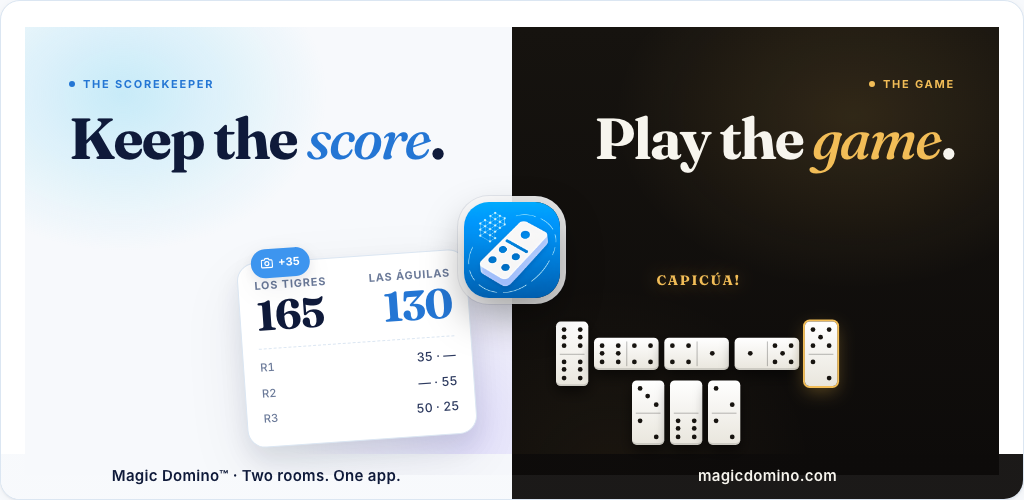
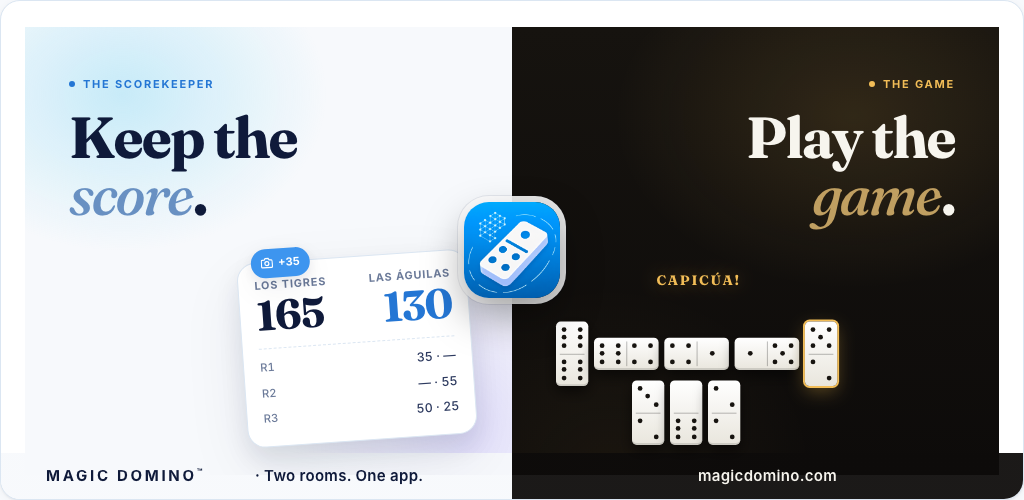
brand: the bar, footer and social card draw the one wordmark — caps, black, tracked

diff --git a/index.html b/index.html
@@ -14,25 +14,25 @@
     <meta property="og:title" content="Magic Domino™ — Keep the score. Play the game.">
     <meta property="og:description" content="The dominoes scorekeeper trusted at real tables, and a real domino game with the rules you grew up with. Two rooms, one app.">
     <meta property="og:url" content="https://magicdomino.com/">
-    <meta property="og:image" content="https://magicdomino.com/social-card.png?v=20260930t">
+    <meta property="og:image" content="https://magicdomino.com/social-card.png?v=20260930u">
     <meta property="og:image:width" content="1024">
     <meta property="og:image:height" content="500">
     <meta name="twitter:card" content="summary_large_image">
     <meta name="twitter:title" content="Magic Domino™ — Keep the score. Play the game.">
     <meta name="twitter:description" content="The dominoes scorekeeper trusted at real tables, and a real domino game with the rules you grew up with. Two rooms, one app.">
-    <meta name="twitter:image" content="https://magicdomino.com/social-card.png?v=20260930t">
+    <meta name="twitter:image" content="https://magicdomino.com/social-card.png?v=20260930u">
 
     <link rel="preconnect" href="https://fonts.googleapis.com">
     <link rel="preconnect" href="https://fonts.gstatic.com" crossorigin>
     <link href="https://fonts.googleapis.com/css2?family=Fraunces:ital,opsz,wght@0,9..144,400;0,9..144,500;0,9..144,600;0,9..144,700;0,9..144,800;1,9..144,500&family=Inter:wght@400;500;600;700&display=swap" rel="stylesheet">
-    <link rel="stylesheet" href="site.css?v=20260930t">
-    <script src="/i18n.js?v=20260930t"></script>
+    <link rel="stylesheet" href="site.css?v=20260930u">
+    <script src="/i18n.js?v=20260930u"></script>
 </head>
 <body>
 
     <nav class="navbar" id="navbar">
         <a href="index.html" class="navbar-brand">
-            <img src="app-icon.png?v=20260930t" alt="" class="brand-icon"><span>Magic Domino<span class="brand-tm">™</span></span>
+            <img src="app-icon.png?v=20260930u" alt="" class="brand-icon"><span>Magic Domino<span class="brand-tm">™</span></span>
         </a>
         <button class="mobile-menu-toggle" onclick="toggleMenu()" aria-label="Menu" data-i18n-attr="aria-label:a11y.menu">☰</button>
         <div class="navbar-links" id="navbarLinks">
@@ -60,7 +60,7 @@
                     <a class="pane-link" href="#score"><span data-i18n="hero.scoreLink">See the scorekeeper</span> <span aria-hidden="true">↓</span></a>
                 </div>
                 <!-- A real phone, showing the real scoreboard, rising out of the pane. -->
-                <figure class="mock mock-score" aria-hidden="true"><img src="hero-score.png?v=20260930t" alt="" width="736" height="1600"></figure>
+                <figure class="mock mock-score" aria-hidden="true"><img src="hero-score.png?v=20260930u" alt="" width="736" height="1600"></figure>
             </div>
 
             <div class="pane pane-play world-play">
@@ -71,11 +71,11 @@
                     <a class="pane-link" href="#play"><span data-i18n="hero.playLink">See the game</span> <span aria-hidden="true">↓</span></a>
                 </div>
                 <!-- A real phone, showing the table mid-hand. -->
-                <figure class="mock mock-play" aria-hidden="true"><img src="hero-play.png?v=20260930t" alt="" width="736" height="1600"></figure>
+                <figure class="mock mock-play" aria-hidden="true"><img src="hero-play.png?v=20260930u" alt="" width="736" height="1600"></figure>
             </div>
 
             <div class="hinge" aria-hidden="true">
-                <img src="app-icon.png?v=20260930t" alt="" class="hinge-icon">
+                <img src="app-icon.png?v=20260930u" alt="" class="hinge-icon">
                 <span class="hinge-label" data-i18n="hero.oneApp">One app</span>
             </div>
         </div>
@@ -163,19 +163,19 @@
                 <button class="scroll-arrow scroll-arrow-left" aria-label="Previous screenshots" data-i18n-attr="aria-label:a11y.prevShots" onclick="scrollStrip('scoreStrip', -1)">‹</button>
                 <div class="strip" id="scoreStrip">
                     <figure class="shot"><div class="shot-frame">
-                        <img src="shot-1.png?v=20260930t" alt="AI score counting with the camera" data-i18n-attr="alt:alt.shot1" data-missing onload="shotLoaded(this)" onerror="this.remove()">
+                        <img src="shot-1.png?v=20260930u" alt="AI score counting with the camera" data-i18n-attr="alt:alt.shot1" data-missing onload="shotLoaded(this)" onerror="this.remove()">
                         <div class="ph"><div><div class="ph-board"><span class="bar hi"></span><span class="bar"></span><span class="bar g"></span><span class="bar"></span></div><div class="ph-title" data-i18n="alt.shot1">AI score counting</div></div></div>
                     </div></figure>
                     <figure class="shot"><div class="shot-frame">
-                        <img src="shot-2.png?v=20260930t" alt="Scoreboard view" data-i18n-attr="alt:alt.shot2" data-missing onload="shotLoaded(this)" onerror="this.remove()">
+                        <img src="shot-2.png?v=20260930u" alt="Scoreboard view" data-i18n-attr="alt:alt.shot2" data-missing onload="shotLoaded(this)" onerror="this.remove()">
                         <div class="ph"><div><div class="ph-board"><span class="bar hi"></span><span class="bar"></span><span class="bar g"></span><span class="bar"></span></div><div class="ph-title" data-i18n="alt.shot2">Scoreboard</div></div></div>
                     </div></figure>
                     <figure class="shot"><div class="shot-frame">
-                        <img src="shot-3.png?v=20260930t" alt="Tournament bracket" data-i18n-attr="alt:alt.shot3" data-missing onload="shotLoaded(this)" onerror="this.remove()">
+                        <img src="shot-3.png?v=20260930u" alt="Tournament bracket" data-i18n-attr="alt:alt.shot3" data-missing onload="shotLoaded(this)" onerror="this.remove()">
                         <div class="ph"><div><div class="ph-board"><span class="bar hi"></span><span class="bar"></span><span class="bar g"></span><span class="bar"></span></div><div class="ph-title" data-i18n="alt.shot3">Tournament bracket</div></div></div>
                     </div></figure>
                     <figure class="shot"><div class="shot-frame">
-                        <img src="shot-4.png?v=20260930t" alt="Game history" data-i18n-attr="alt:alt.shot4" data-missing onload="shotLoaded(this)" onerror="this.remove()">
+                        <img src="shot-4.png?v=20260930u" alt="Game history" data-i18n-attr="alt:alt.shot4" data-missing onload="shotLoaded(this)" onerror="this.remove()">
                         <div class="ph"><div><div class="ph-board"><span class="bar hi"></span><span class="bar"></span><span class="bar g"></span><span class="bar"></span></div><div class="ph-title" data-i18n="alt.shot4">Game history</div></div></div>
                     </div></figure>
                 </div>
@@ -262,27 +262,27 @@
                 <button class="scroll-arrow scroll-arrow-left" aria-label="Previous screenshots" data-i18n-attr="aria-label:a11y.prevShots" onclick="scrollStrip('playStrip', -1)">‹</button>
                 <div class="strip" id="playStrip">
                     <figure class="shot"><div class="shot-frame">
-                        <img src="play-shot-1.png?v=20260930t" alt="The table" data-i18n-attr="alt:pshots.s1" data-missing onload="shotLoaded(this)" onerror="this.remove()">
+                        <img src="play-shot-1.png?v=20260930u" alt="The table" data-i18n-attr="alt:pshots.s1" data-missing onload="shotLoaded(this)" onerror="this.remove()">
                         <div class="ph"><div><div class="ph-mini"><div class="tile h"><div class="face p6"><i></i><i></i><i></i><i></i><i></i><i></i><i></i><i></i><i></i></div><div class="face p3"><i></i><i></i><i></i><i></i><i></i><i></i><i></i><i></i><i></i></div></div><div class="tile h just"><div class="face p3"><i></i><i></i><i></i><i></i><i></i><i></i><i></i><i></i><i></i></div><div class="face p1"><i></i><i></i><i></i><i></i><i></i><i></i><i></i><i></i><i></i></div></div></div><div class="ph-title" data-i18n="pshots.s1">The table</div></div></div>
                     </div></figure>
                     <figure class="shot"><div class="shot-frame">
-                        <img src="play-shot-2.png?v=20260930t" alt="The front door" data-i18n-attr="alt:pshots.s5" data-missing onload="shotLoaded(this)" onerror="this.remove()">
+                        <img src="play-shot-2.png?v=20260930u" alt="The front door" data-i18n-attr="alt:pshots.s5" data-missing onload="shotLoaded(this)" onerror="this.remove()">
                         <div class="ph"><div><div class="ph-mini"><div class="tile "><div class="face p6"><i></i><i></i><i></i><i></i><i></i><i></i><i></i><i></i><i></i></div><div class="face p6"><i></i><i></i><i></i><i></i><i></i><i></i><i></i><i></i><i></i></div></div><div class="tile "><div class="face p5"><i></i><i></i><i></i><i></i><i></i><i></i><i></i><i></i><i></i></div><div class="face p5"><i></i><i></i><i></i><i></i><i></i><i></i><i></i><i></i><i></i></div></div><div class="tile "><div class="face p4"><i></i><i></i><i></i><i></i><i></i><i></i><i></i><i></i><i></i></div><div class="face p4"><i></i><i></i><i></i><i></i><i></i><i></i><i></i><i></i><i></i></div></div></div><div class="ph-title" data-i18n="pshots.s5">The front door</div></div></div>
                     </div></figure>
                     <figure class="shot"><div class="shot-frame">
-                        <img src="play-shot-3.png?v=20260930t" alt="Pick your game" data-i18n-attr="alt:pshots.s2" data-missing onload="shotLoaded(this)" onerror="this.remove()">
+                        <img src="play-shot-3.png?v=20260930u" alt="Pick your game" data-i18n-attr="alt:pshots.s2" data-missing onload="shotLoaded(this)" onerror="this.remove()">
                         <div class="ph"><div><div class="ph-mini"><div class="tile "><div class="face p6"><i></i><i></i><i></i><i></i><i></i><i></i><i></i><i></i><i></i></div><div class="face p6"><i></i><i></i><i></i><i></i><i></i><i></i><i></i><i></i><i></i></div></div><div class="tile "><div class="face p5"><i></i><i></i><i></i><i></i><i></i><i></i><i></i><i></i><i></i></div><div class="face p5"><i></i><i></i><i></i><i></i><i></i><i></i><i></i><i></i><i></i></div></div><div class="tile "><div class="face p4"><i></i><i></i><i></i><i></i><i></i><i></i><i></i><i></i><i></i></div><div class="face p4"><i></i><i></i><i></i><i></i><i></i><i></i><i></i><i></i><i></i></div></div></div><div class="ph-title" data-i18n="pshots.s2">Pick your game</div></div></div>
                     </div></figure>
                     <figure class="shot"><div class="shot-frame">
-                        <img src="play-shot-4.png?v=20260930t" alt="Play together" data-i18n-attr="alt:pshots.s3" data-missing onload="shotLoaded(this)" onerror="this.remove()">
+                        <img src="play-shot-4.png?v=20260930u" alt="Play together" data-i18n-attr="alt:pshots.s3" data-missing onload="shotLoaded(this)" onerror="this.remove()">
                         <div class="ph"><div><div class="ph-mini"><div class="tile back"></div><div class="tile back"></div><div class="tile back"></div><div class="tile back"></div></div><div class="ph-title" data-i18n="pshots.s3">Play together</div></div></div>
                     </div></figure>
                     <figure class="shot"><div class="shot-frame">
-                        <img src="play-shot-5.png?v=20260930t" alt="The bracket" data-i18n-attr="alt:pshots.s4" data-missing onload="shotLoaded(this)" onerror="this.remove()">
+                        <img src="play-shot-5.png?v=20260930u" alt="The bracket" data-i18n-attr="alt:pshots.s4" data-missing onload="shotLoaded(this)" onerror="this.remove()">
                         <div class="ph"><div><div class="ph-mini"><div class="tile h"><div class="face p1"><i></i><i></i><i></i><i></i><i></i><i></i><i></i><i></i><i></i></div><div class="face p1"><i></i><i></i><i></i><i></i><i></i><i></i><i></i><i></i><i></i></div></div></div><div class="ph-title" data-i18n="pshots.s4">The bracket</div></div></div>
                     </div></figure>
                     <figure class="shot"><div class="shot-frame">
-                        <img src="play-shot-6.png?v=20260930t" alt="The hand is over" data-i18n-attr="alt:pshots.s6" data-missing onload="shotLoaded(this)" onerror="this.remove()">
+                        <img src="play-shot-6.png?v=20260930u" alt="The hand is over" data-i18n-attr="alt:pshots.s6" data-missing onload="shotLoaded(this)" onerror="this.remove()">
                         <div class="ph"><div><div class="ph-mini"><div class="tile h"><div class="face p0"><i></i><i></i><i></i><i></i><i></i><i></i><i></i><i></i><i></i></div><div class="face p0"><i></i><i></i><i></i><i></i><i></i><i></i><i></i><i></i><i></i></div></div></div><div class="ph-title" data-i18n="pshots.s6">The hand is over</div></div></div>
                     </div></figure>
                 </div>
@@ -306,7 +306,7 @@
                     <span class="tag" data-i18n="duo.tag">iPhone Duo · opened</span>
                 </div>
                 <figure class="duo-frame">
-                    <img src="duo-split.png?v=20260930t" alt="Magic Domino on an opened iPhone Duo: the scoreboard on the left half, a domino hand in play on the right" width="1800" height="1266" loading="lazy">
+                    <img src="duo-split.png?v=20260930u" alt="Magic Domino on an opened iPhone Duo: the scoreboard on the left half, a domino hand in play on the right" width="1800" height="1266" loading="lazy">
                 </figure>
             </div>
         </div>
@@ -392,7 +392,7 @@
 
     <footer>
         <a href="#top" class="footer-brand">
-            <img src="app-icon.png?v=20260930t" alt="" class="brand-icon"><span>Magic Domino<span class="brand-tm">™</span></span>
+            <img src="app-icon.png?v=20260930u" alt="" class="brand-icon"><span>Magic Domino<span class="brand-tm">™</span></span>
         </a>
         <div class="store-row footer-store">
             <a href="https://apps.apple.com/us/app/magic-domino-ai-scorekeeper/id6747228055" class="store-badge" aria-label="Download on the App Store">

diff --git a/site.css b/site.css
@@ -118,12 +118,15 @@ a { color: inherit; }
     border-bottom-color: rgba(247, 245, 238, 0.10);
     color: var(--ivory);
 }
+/* ✅ THE ONE LOCKUP (2026-09-30). The name is drawn the same way here as in the app's
+   header and Play home: all caps, black weight, letter-spaced. Before this the bar
+   used the display serif — a third rendering of a trademark that should have one. */
 .navbar-brand {
     display: flex; align-items: center; gap: 0.6rem;
     text-decoration: none; color: inherit;
-    font-family: var(--display); font-weight: 600; font-size: 1.25rem; letter-spacing: -0.01em;
+    font-family: var(--text); font-weight: 900; font-size: 0.86rem; letter-spacing: 0.22em; text-transform: uppercase;
 }
-.brand-tm { font-family: var(--text); font-size: 0.55em; font-weight: 600; vertical-align: super; margin-left: 0.05em; opacity: 0.7; }
+.brand-tm { font-size: 0.6em; font-weight: 900; letter-spacing: 0; vertical-align: super; margin-left: 0.15em; opacity: 0.8; }
 .brand-icon {
     width: 32px; height: 32px; border-radius: 8px;
     box-shadow: 0 2px 8px rgba(15, 26, 58, 0.18);
@@ -563,7 +566,7 @@ footer {
     background: var(--felt); color: var(--ivory); text-align: center;
     padding: 4rem 1.5rem 2.5rem; display: grid; gap: 1.6rem; justify-items: center;
 }
-.footer-brand { display: inline-flex; align-items: center; gap: 0.6rem; text-decoration: none; color: inherit; font-family: var(--display); font-weight: 600; font-size: 1.35rem; }
+.footer-brand { display: inline-flex; align-items: center; gap: 0.6rem; text-decoration: none; color: inherit; font-family: var(--text); font-weight: 900; font-size: 0.92rem; letter-spacing: 0.22em; text-transform: uppercase; }
 .footer-links { display: flex; gap: 1.6rem; flex-wrap: wrap; justify-content: center; }
 .footer-links a { color: var(--ivory-dim); text-decoration: none; font-size: 0.92rem; }
 .footer-links a:hover { color: var(--brass); }

diff --git a/privacy.html b/privacy.html
@@ -9,13 +9,13 @@
     <link rel="preconnect" href="https://fonts.googleapis.com">
     <link rel="preconnect" href="https://fonts.gstatic.com" crossorigin>
     <link href="https://fonts.googleapis.com/css2?family=Fraunces:ital,opsz,wght@0,9..144,400;0,9..144,500;0,9..144,600;0,9..144,700;1,9..144,500&family=Inter:wght@400;500;600;700&display=swap" rel="stylesheet">
-    <link rel="stylesheet" href="site.css?v=20260930t">
-    <script src="/i18n.js?v=20260930t"></script>
+    <link rel="stylesheet" href="site.css?v=20260930u">
+    <script src="/i18n.js?v=20260930u"></script>
 </head>
 <body>
     <nav class="navbar">
         <a href="index.html" class="navbar-brand">
-            <img src="app-icon.png?v=20260930t" alt="" class="brand-icon"><span>Magic Domino<span class="brand-tm">™</span></span>
+            <img src="app-icon.png?v=20260930u" alt="" class="brand-icon"><span>Magic Domino<span class="brand-tm">™</span></span>
         </a>
         <button class="mobile-menu-toggle" onclick="toggleMenu()" aria-label="Menu" data-i18n-attr="aria-label:a11y.menu">☰</button>
         <div class="navbar-links" id="navbarLinks">
@@ -136,7 +136,7 @@
 
     <footer>
         <a href="index.html" class="footer-brand">
-            <img src="app-icon.png?v=20260930t" alt="" class="brand-icon"><span>Magic Domino<span class="brand-tm">™</span></span>
+            <img src="app-icon.png?v=20260930u" alt="" class="brand-icon"><span>Magic Domino<span class="brand-tm">™</span></span>
         </a>
         <div class="footer-links">
             <a href="index.html#score" data-i18n="nav.score">Scorekeeper</a>

diff --git a/support.html b/support.html
@@ -9,13 +9,13 @@
     <link rel="preconnect" href="https://fonts.googleapis.com">
     <link rel="preconnect" href="https://fonts.gstatic.com" crossorigin>
     <link href="https://fonts.googleapis.com/css2?family=Fraunces:ital,opsz,wght@0,9..144,400;0,9..144,500;0,9..144,600;0,9..144,700;1,9..144,500&family=Inter:wght@400;500;600;700&display=swap" rel="stylesheet">
-    <link rel="stylesheet" href="site.css?v=20260930t">
-    <script src="/i18n.js?v=20260930t"></script>
+    <link rel="stylesheet" href="site.css?v=20260930u">
+    <script src="/i18n.js?v=20260930u"></script>
 </head>
 <body>
     <nav class="navbar">
         <a href="index.html" class="navbar-brand">
-            <img src="app-icon.png?v=20260930t" alt="" class="brand-icon"><span>Magic Domino<span class="brand-tm">™</span></span>
+            <img src="app-icon.png?v=20260930u" alt="" class="brand-icon"><span>Magic Domino<span class="brand-tm">™</span></span>
         </a>
         <button class="mobile-menu-toggle" onclick="toggleMenu()" aria-label="Menu" data-i18n-attr="aria-label:a11y.menu">☰</button>
         <div class="navbar-links" id="navbarLinks">
@@ -248,7 +248,7 @@
 
     <footer>
         <a href="index.html" class="footer-brand">
-            <img src="app-icon.png?v=20260930t" alt="" class="brand-icon"><span>Magic Domino<span class="brand-tm">™</span></span>
+            <img src="app-icon.png?v=20260930u" alt="" class="brand-icon"><span>Magic Domino<span class="brand-tm">™</span></span>
         </a>
         <div class="footer-links">
             <a href="index.html#score" data-i18n="nav.score">Scorekeeper</a>

diff --git a/terms.html b/terms.html
@@ -9,13 +9,13 @@
     <link rel="preconnect" href="https://fonts.googleapis.com">
     <link rel="preconnect" href="https://fonts.gstatic.com" crossorigin>
     <link href="https://fonts.googleapis.com/css2?family=Fraunces:ital,opsz,wght@0,9..144,400;0,9..144,500;0,9..144,600;0,9..144,700;1,9..144,500&family=Inter:wght@400;500;600;700&display=swap" rel="stylesheet">
-    <link rel="stylesheet" href="site.css?v=20260930t">
-    <script src="/i18n.js?v=20260930t"></script>
+    <link rel="stylesheet" href="site.css?v=20260930u">
+    <script src="/i18n.js?v=20260930u"></script>
 </head>
 <body>
     <nav class="navbar">
         <a href="index.html" class="navbar-brand">
-            <img src="app-icon.png?v=20260930t" alt="" class="brand-icon"><span>Magic Domino<span class="brand-tm">™</span></span>
+            <img src="app-icon.png?v=20260930u" alt="" class="brand-icon"><span>Magic Domino<span class="brand-tm">™</span></span>
         </a>
         <button class="mobile-menu-toggle" onclick="toggleMenu()" aria-label="Menu" data-i18n-attr="aria-label:a11y.menu">☰</button>
         <div class="navbar-links" id="navbarLinks">
@@ -176,7 +176,7 @@
 
     <footer>
         <a href="index.html" class="footer-brand">
-            <img src="app-icon.png?v=20260930t" alt="" class="brand-icon"><span>Magic Domino<span class="brand-tm">™</span></span>
+            <img src="app-icon.png?v=20260930u" alt="" class="brand-icon"><span>Magic Domino<span class="brand-tm">™</span></span>
         </a>
         <div class="footer-links">
             <a href="index.html#score" data-i18n="nav.score">Scorekeeper</a>

diff --git a/social-card.html b/social-card.html
@@ -74,7 +74,7 @@
             </div>
         </div>
         <div class="hinge" aria-hidden="true"><img src="app-icon.png" alt="" class="hinge-icon"></div>
-        <div class="one-line"><span class="l">Magic Domino™ · Two rooms. One app.</span><span class="r">magicdomino.com</span></div>
+        <div class="one-line"><span class="l" style="font-weight:900;letter-spacing:0.18em;text-transform:uppercase">Magic Domino<sup style="font-size:0.6em">™</sup> <span style="letter-spacing:0.02em;text-transform:none;font-weight:600">· Two rooms. One app.</span></span><span class="r">magicdomino.com</span></div>
     </div>
 </body>
 </html>

diff --git a/404.html b/404.html
@@ -217,7 +217,7 @@
         .store-badge img { height: 44px; }
     }
 </style>
-    <script src="/i18n.js?v=20260930t"></script>
+    <script src="/i18n.js?v=20260930u"></script>
 </head>
 <body>
 <div class="dot-bg"></div>
